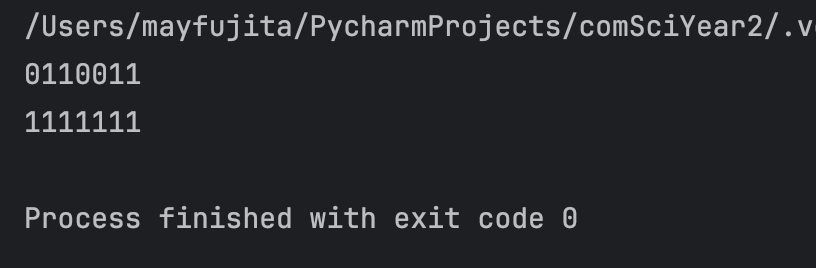
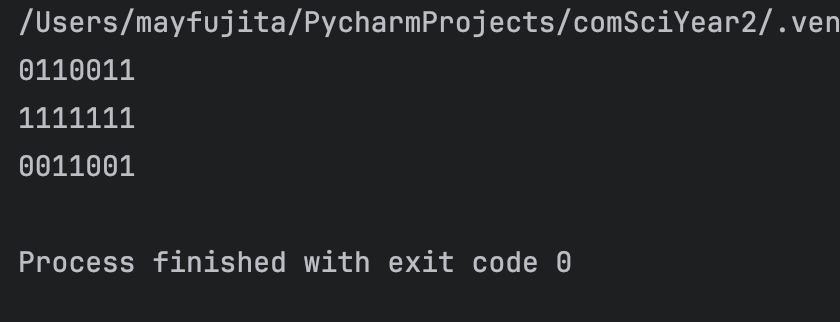
Chotto documentation

Changed region(s): [[0.0, 0.0299, 1.0, 0.1493], [0.0, 0.7761, 0.7047, 0.8657], [0.0, 0.1791, 0.1838, 0.5672]]

diff --git a/quizzes/quiz_files/quiz_isolated.py b/quizzes/quiz_files/quiz_isolated.py
@@ -1,12 +1,19 @@
 from quiz_075 import find_parity_indices, find_num_of_parity_bits, get_indices_checked
 
-def find_parity_indices(k: int) -> list[int]:
-    positions = []
-    for n in range(k):
-        positions.append((2 ** n) - 1)
-    return positions
 
-# Check to see it works:
-print(find_parity_indices(3))
-print(find_parity_indices(4))
-print(find_parity_indices(5))
+def create_message(msg: str) -> list:
+    output = []
+    k = find_num_of_parity_bits(len(msg))
+    pos = find_parity_indices(k)
+
+    msg_index = 0
+    for n in range(len(msg) + k):
+        if n in pos:  # Where a parity should be
+            output.append(-1)
+        else:
+            output.append(msg[msg_index])  # Actual value of the message
+            msg_index += 1
+    return output
+
+# Check that it works
+print(create_message('1011'))

diff --git a/quizzes/quiz_files/quiz_080.py b/quizzes/quiz_files/quiz_080.py
@@ -1,0 +1,13 @@
+def function(n: list[int]) -> int:
+    if len(n) == 1:
+        return n[0]
+    else:
+        m = function(n[1:])
+        if n[0] > m:
+            return n[0]
+        else:
+            return m
+
+
+# Test that it works
+print(function(n=[4, 5, 8, 7]))

diff --git a/quizzes/quiz_075.md b/quizzes/quiz_075.md
@@ -5,6 +5,10 @@
 ![](images/quiz_075_slide.png)
 *fig. 1* **Screenshot of quiz slides**
 
+### Working
+![](images/quiz_075_working.jpeg)
+*fig. 2* **Screenshot of working**
+
 ### Solution
 ```.python
 from matplotlib import pyplot as plt
@@ -34,7 +38,7 @@ print(find_num_of_parity_bits(6))
 ```
 ### Evidence
 ![](images/quiz_075_evidence.png)
-*fig. 2* **Screenshot of working/solution**
+*fig. 3* **Screenshot of working/solution**
 
 ![](images/quiz_075_graph.png)
-*fig. 2* **Screenshot of graph of length of message against efficiency**
+*fig. 4* **Screenshot of graph of length of message against efficiency**

diff --git a/quizzes/quiz_080.md b/quizzes/quiz_080.md
@@ -1,0 +1,30 @@
+# Quiz 080
+<hr>
+
+### Prompt
+![](images/quiz_080_slide.png)
+*fig. 1* **Screenshot of quiz slides**
+
+### Working
+![](images/quiz_080_working.jpeg)
+*fig. 1* **Screenshot of working**
+
+### Solution
+```.python
+def function(n: list[int]) -> int:
+    if len(n) == 1:
+        return n[0]
+    else:
+        m = function(n[1:])
+        if n[0] > m:
+            return n[0]
+        else:
+            return m
+
+
+# Test that it works
+print(function(n=[4, 5, 8, 7]))
+```
+### Evidence
+![](images/quiz_080_evidence.png)
+*fig. 2* **Screenshot of working/solution**

diff --git a/quizzes/quiz_079.md b/quizzes/quiz_079.md
@@ -5,6 +5,10 @@
 ![](images/quiz_079_slide.png)
 *fig. 1* **Screenshot of quiz slides**
 
+### Working
+![](images/quiz_079_working.jpeg)
+*fig. 2* **Screenshot of working**
+
 ### Solution
 ```.python
 def create_message(msg: str) -> str:
@@ -42,7 +46,8 @@ def create_message(msg: str) -> str:
 # Test that it works:
 print(create_message(msg='1011'))
 print(create_message(msg='1111'))
+print(create_message(msg='1001'))
 ```
 ### Evidence
 ![](images/quiz_079_evidence.png)
-*fig. 2* **Screenshot of working/solution**
+*fig. 3* **Screenshot of working/solution**

diff --git a/quizzes/quiz_074.md b/quizzes/quiz_074.md
@@ -5,6 +5,10 @@
 ![](images/quiz_074_slide.png)
 *fig. 1* **Screenshot of quiz slides**
 
+### Working
+![](images/quiz_074_working.jpeg)
+*fig. 2* **Screenshot of working**
+
 ### Solution
 ```.python
 def check_error_with_parity_bit(bits:str) -> bool:
@@ -26,4 +30,4 @@ print(check_error_with_parity_bit('011101111101110111110111001111'))
 ```
 ### Evidence
 ![](images/quiz_074_evidence.png)
-*fig. 2* **Screenshot of working/solution**
+*fig. 3* **Screenshot of working/solution**

diff --git a/quizzes/quiz_077.md b/quizzes/quiz_077.md
@@ -5,6 +5,10 @@
 ![](images/quiz_077_slide.png)
 *fig. 1* **Screenshot of quiz slides**
 
+### Working
+![](images/quiz_077_working.jpeg)
+*fig. 2* **Screenshot of working**
+
 ### Solution
 ```.python
 def get_indices_checked(p: int, msg_len: int) -> list[int]:
@@ -27,4 +31,4 @@ print(get_indices_checked(msg_len=7, p=3))
 ```
 ### Evidence
 ![](images/quiz_077_evidence.png)
-*fig. 2* **Screenshot of working/solution**
+*fig. 3* **Screenshot of working/solution**

diff --git a/quizzes/quiz_073.md b/quizzes/quiz_073.md
@@ -5,6 +5,10 @@
 ![](images/quiz_073_slide.png)
 *fig. 1* **Screenshot of quiz slides**
 
+### Working
+![](images/quiz_073_working.jpeg)
+*fig. 2* **Screenshot of working**
+
 ### Solution
 ```.python
 def check_for_error(packet: str) -> str:
@@ -42,4 +46,4 @@ print(check_for_error('011101111101110111110111001111'))
 ```
 ### Evidence
 ![](images/quiz_073_evidence.png)
-*fig. 2* **Screenshot of working/solution**
+*fig. 3* **Screenshot of working/solution**

diff --git a/quizzes/quiz_076.md b/quizzes/quiz_076.md
@@ -5,6 +5,10 @@
 ![](images/quiz_076_slide.png)
 *fig. 1* **Screenshot of quiz slides**
 
+### Working
+![](images/quiz_076_working.jpeg)
+*fig. 2* **Screenshot of working**
+
 ### Solution
 ```.python
 def find_parity_indices(k: int) -> list[int]:
@@ -20,4 +24,4 @@ print(find_parity_indices(5))
 ```
 ### Evidence
 ![](images/quiz_076_evidence.png)
-*fig. 2* **Screenshot of working/solution**
+*fig. 3* **Screenshot of working/solution**

diff --git a/quizzes/quiz_078.md b/quizzes/quiz_078.md
@@ -5,6 +5,10 @@
 ![](images/quiz_078_slide.png)
 *fig. 1* **Screenshot of quiz slides**
 
+### Working
+![](images/quiz_078_working.jpeg)
+*fig. 2* **Screenshot of working**
+
 ### Solution
 ```.python
 def create_message(msg: str) -> list:
